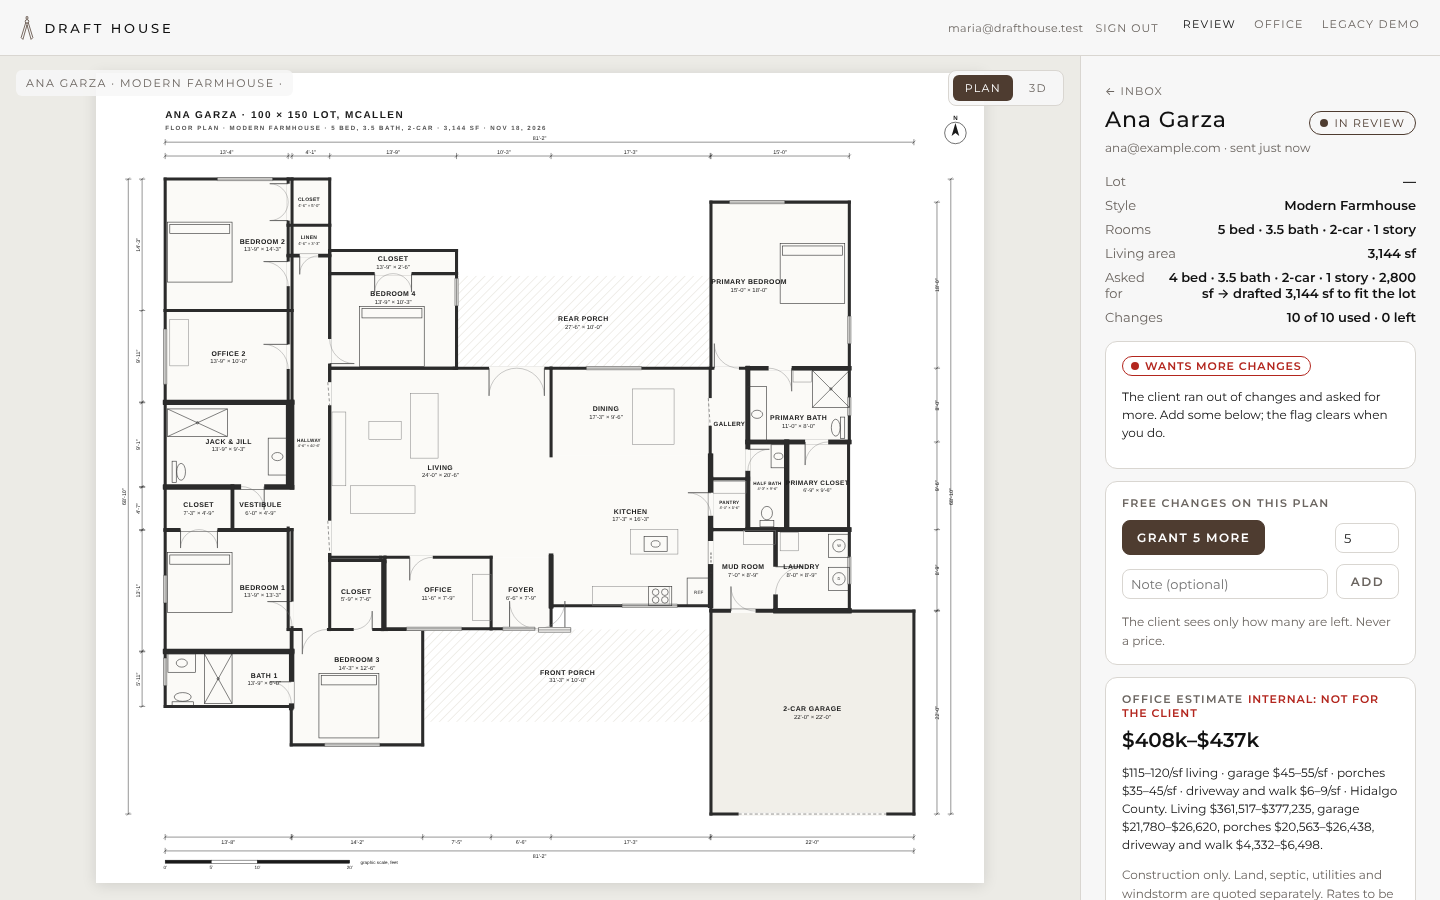
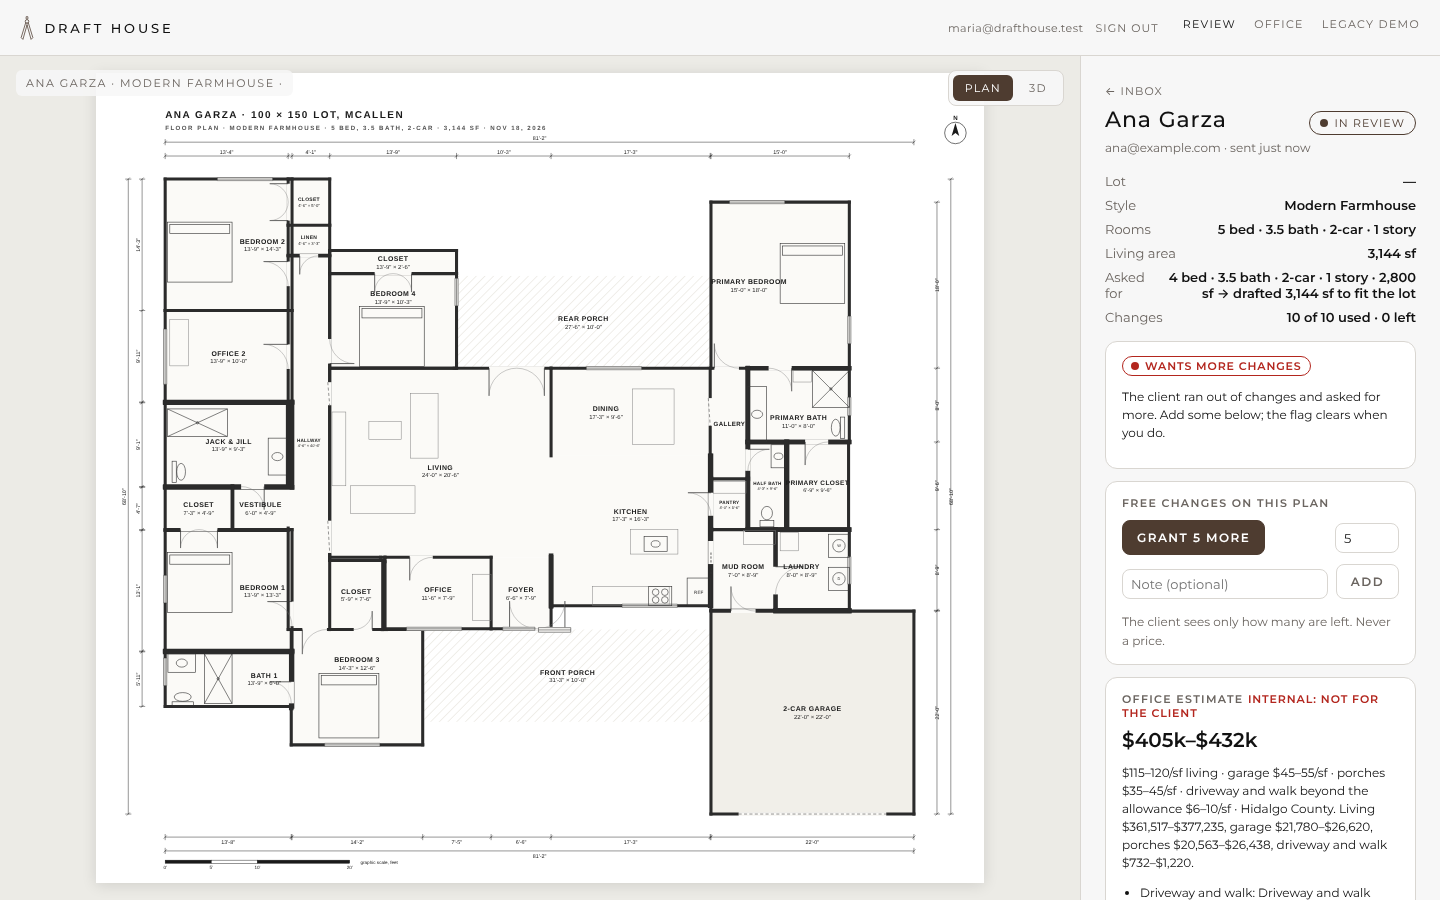
Round 8 updated items 1, 3 and 19: the slow-phone check on the rooms step, a request id on every unexpected 500, the compact plan's entry zone
Item 1: a Playwright test at 390 px with 6x CPU throttling taps bedrooms
ten times fast; a long-task observer sees no task over 200 ms, and the
meter says "Checking the lot…" (now also beside the last answer while a
later check runs) and then the result. Item 3: an error with a status of
its own and expose not false keeps its words; anything else is 500 with
"Something went wrong on our side; the office has been told. Reference
<id>." and the same id in the log with the stack (a test-only route behind
DRAFTHOUSE_TEST_ROUTES=1 proves it). Item 19: a bench-and-hook wall inside
the compact plan's front door, 4.6 ft from it; the open-plan reach is
measured and reported (the kitchen still sits behind the hall). Tables for
the report in docs/fix-round-8/.

Claude-Session: https://claude.ai/code/session_01R9nZixATaRF2JVPZiqt7bd

Changed region(s): [[0.7812, 0.8711, 0.9688, 1.0], [0.8125, 0.8089, 0.875, 0.84]]

diff --git a/src/draft/screens/Program.jsx b/src/draft/screens/Program.jsx
@@ -154,9 +154,13 @@ export default function Program({ program, style, lot, onChange, onNext, onBack 
         {checking && !checked ? (
           <p className="muted fit-note">Checking the lot…</p>
         ) : check.ok ? (
-          <p className="fine">{trimmed ? `Fits once trimmed about ${trimmed}% to stay inside the setbacks on this lot.` : 'Passes the setback, size and coverage rules on this lot.'}</p>
+          <p className="fine">
+            {trimmed ? `Fits once trimmed about ${trimmed}% to stay inside the setbacks on this lot.` : 'Passes the setback, size and coverage rules on this lot.'}
+            {checking && <span className="muted fit-note"> Checking the lot…</span>}
+          </p>
         ) : (
           <p className="fine bad">
+            {checking && <span className="muted fit-note">Checking the lot… </span>}
             Does not fit this lot: {check.reasons[0]}
             {check.maxSqft ? (
               <>
@@ -176,6 +180,8 @@ export default function Program({ program, style, lot, onChange, onNext, onBack 
               </>
             ) : check.need ? (
               ` This style's smallest plan is about ${check.need.houseWidth} by ${check.need.houseDepth} ft; the buildable area here is ${check.need.lotWidth} by ${check.need.lotDepth} ft. It needs a wider lot, or another style once more kits are ready.`
+            ) : lot?.spec?.noStreetGarage && program.garage > 0 ? (
+              ' With the deed restriction (no garage facing the street) the garage has to load from the side or a side street, and that needs a wider lot. Try fewer cars, or no garage.'
             ) : (
               ' Try fewer rooms or a smaller garage.'
             )}

diff --git a/src/kits/farmhouse-compact.js b/src/kits/farmhouse-compact.js
@@ -125,6 +125,8 @@ export const COMPACT_PLAN = {
     { k: 'table', room: 'dining', x: 31, y: 3.5, w: 3.5, d: 5.5 },
     { k: 'shelves', room: 'pantry', x: 17.3, y: 27.75, w: 2.9, d: 1.25 },
     { k: 'bench', room: 'mud', x: 20.5, y: 26.6, w: 1.2, d: 2.4 },
+    // the entry zone (round 8, item 19): a bench-and-hook wall inside the front door, no foyer
+    { k: 'bench', room: 'living', x: 15.5, y: 47.5, w: 1.5, d: 3.5 },
     { k: 'washer', room: 'laundry', x: 27.8, y: 26.5, w: 2.25, d: 2.5 },
     { k: 'dryer', room: 'laundry', x: 30.05, y: 26.5, w: 2.25, d: 2.5 },
     { k: 'wh', room: 'laundry', x: 33, y: 27, w: 2, d: 2 },

diff --git a/docs/fix-round-8/tables-no-money.md b/docs/fix-round-8/tables-no-money.md
@@ -1,0 +1,33 @@
+| lot | program | plan | sf | beds (flex) | errors | warnings | garage projection | hot water ft |
+|---|---|---|---|---|---|---|---|---|
+| reference (Lot 514) | 3/2 1,800 | standard | 1,871 | 3 | 0 | nkba-toilet-side, area | — | 66 |
+| reference (Lot 514) | 4/3.5 2-car 2,800 | standard | 2,804 | 4 | 0 | nkba-toilet-side, nkba-toilet-front | -29.1 | 97 |
+| reference (Lot 514) | 5/4 3-car 3,500 | standard | 3,521 | 5 | 0 | nkba-toilet-side | -32.5 | 45 |
+| reference (Lot 514) | Garza | standard | 2,556 | 4 | 0 | nkba-toilet-front, nkba-toilet-side | — | 92 |
+| reference (Lot 514) | compact 1,300 | compact | 1,308 | 3 | 0 | nkba-shower-size, nkba-toilet-side, nkba-shower-front, nkba-toilet-front | — | 43 |
+| McAllen 100 x 150 | 3/2 1,800 | standard | 1,871 | 3 | 0 | nkba-toilet-side, area | — | 66 |
+| McAllen 100 x 150 | 4/3.5 2-car 2,800 | frontgarage | 2,829 | 4 | 0 | nkba-toilet-front | 10 | 84 |
+| McAllen 100 x 150 | 5/4 3-car 3,500 | frontgarage | 3,520 | 5 | 0 | nkba-toilet-front, nkba-toilet-side, triangle, hall-long | 10 | 80 |
+| McAllen 100 x 150 | Garza | standard | 2,556 | 4 | 0 | nkba-toilet-front, nkba-toilet-side | — | 92 |
+| McAllen 100 x 150 | compact 1,300 | compact | 1,308 | 3 | 0 | nkba-shower-size, nkba-toilet-side, nkba-shower-front, nkba-toilet-front | — | 43 |
+| narrow 50 x 120 | 3/2 1,800 | narrow | 1,876 | 3 | 0 | nkba-shower-size, area | — | 42 |
+| narrow 50 x 120 | 4/3.5 2-car 2,800 | standard | 2,804 | 4 | 0 | nkba-toilet-side, nkba-toilet-front | — | 97 |
+| narrow 50 x 120 | 5/4 3-car 3,500 | standard | 3,521 | 5 | 0 | nkba-toilet-side | — | 45 |
+| narrow 50 x 120 | Garza | standard | 2,556 | 4 | 0 | nkba-toilet-front, nkba-toilet-side | — | 92 |
+| narrow 50 x 120 | compact 1,300 | compact | 1,308 | 3 | 0 | nkba-shower-size, nkba-toilet-side, nkba-shower-front, nkba-toilet-front | — | 43 |
+| corner 110 x 140 | 3/2 1,800 | standard | 1,871 | 3 | 0 | nkba-toilet-side, area | — | 66 |
+| corner 110 x 140 | 4/3.5 2-car 2,800 | frontgarage | 2,829 | 4 | 0 | nkba-toilet-front | 10 | 84 |
+| corner 110 x 140 | 5/4 3-car 3,500 | frontgarage | 3,277 | 5 | 0 | nkba-toilet-front, triangle, area, hall-long | 10 | 75 |
+| corner 110 x 140 | Garza | standard | 2,556 | 4 | 0 | nkba-toilet-front, nkba-toilet-side | — | 92 |
+| corner 110 x 140 | compact 1,300 | compact | 1,308 | 3 | 0 | nkba-shower-size, nkba-toilet-side, nkba-shower-front, nkba-toilet-front | — | 43 |
+
+## Office estimate (drafter-only) on the fixtures
+
+| fixture | range | living | upgrades | driveway and walk | notes |
+|---|---|---|---|---|---|
+| McAllen 2-car 4/3.5, farmhouse | $359k–$381k | $325,328–$339,473 | — | Driveway and walk beyond the included 600 sf: 122 sf × $6–10 = $732–$1,220 | — |
+| Brownsville (Cameron) 2-car 4/3.5, farmhouse | $373k–$410k | $339,473–$367,762 | — | Driveway and walk beyond the included 600 sf: 122 sf × $6–10 = $732–$1,220 | Windstorm inspections and TDI certificate (WPI-8): quoted separately. Free with a TDI field inspector; an appointed engineer’s fee if one inspects. |
+| McAllen 2,000 sf, modern style | $282k–$300k | $230,000–$240,000 | Standing-seam metal roof $18,000 | Driveway and walk beyond the included 600 sf: 160 sf × $6–10 = $960–$1,600 | — |
+| McAllen 2,200 sf, 4 baths, farmhouse | $287k–$306k | $253,000–$264,000 | — | Driveway and walk beyond the included 600 sf: 160 sf × $6–10 = $960–$1,600 | 1 extra full bath: quoted by the office |
+| McAllen compact 1,300 no garage | $155k–$163k | $150,391–$156,930 | — | Driveway and walk beyond the included 0 sf: 127 sf × $6–10 = $762–$1,270 | — |
+| Willacy County 2,000 sf | $274k–$302k | $240,000–$260,000 | — | Driveway and walk beyond the included 600 sf: 160 sf × $6–10 = $960–$1,600 | outside our usual service area; the office confirms the rate; Windstorm inspections and TDI certificate (WPI-8): quoted separately. Free with a TDI field inspector; an appointed engineer’s fee if one inspects. |
